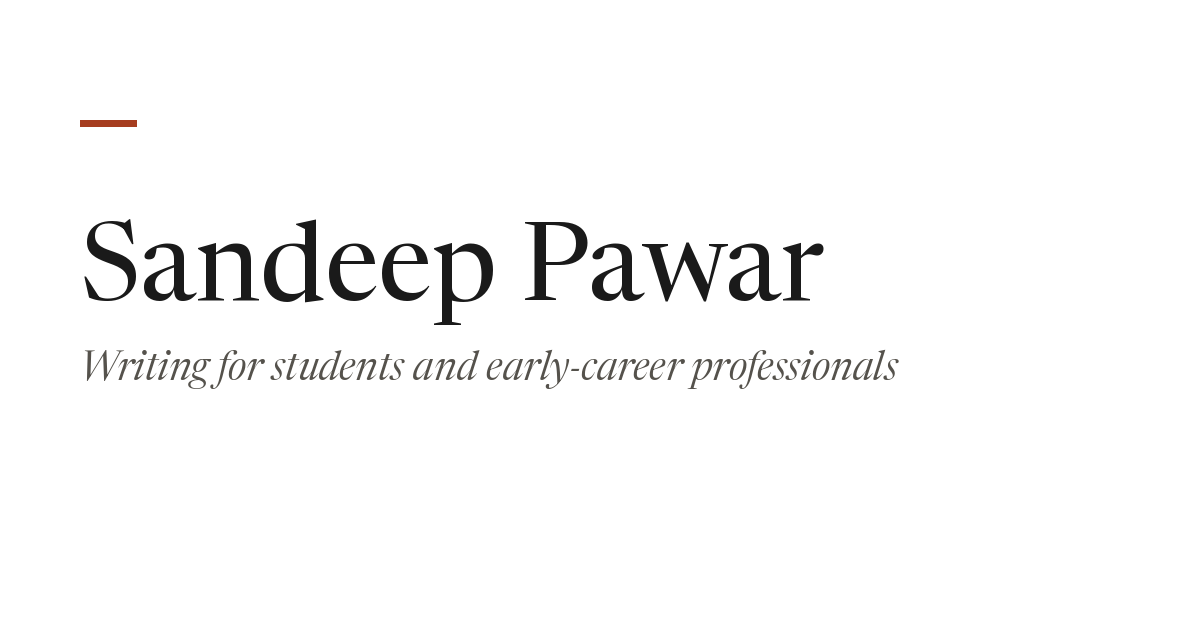
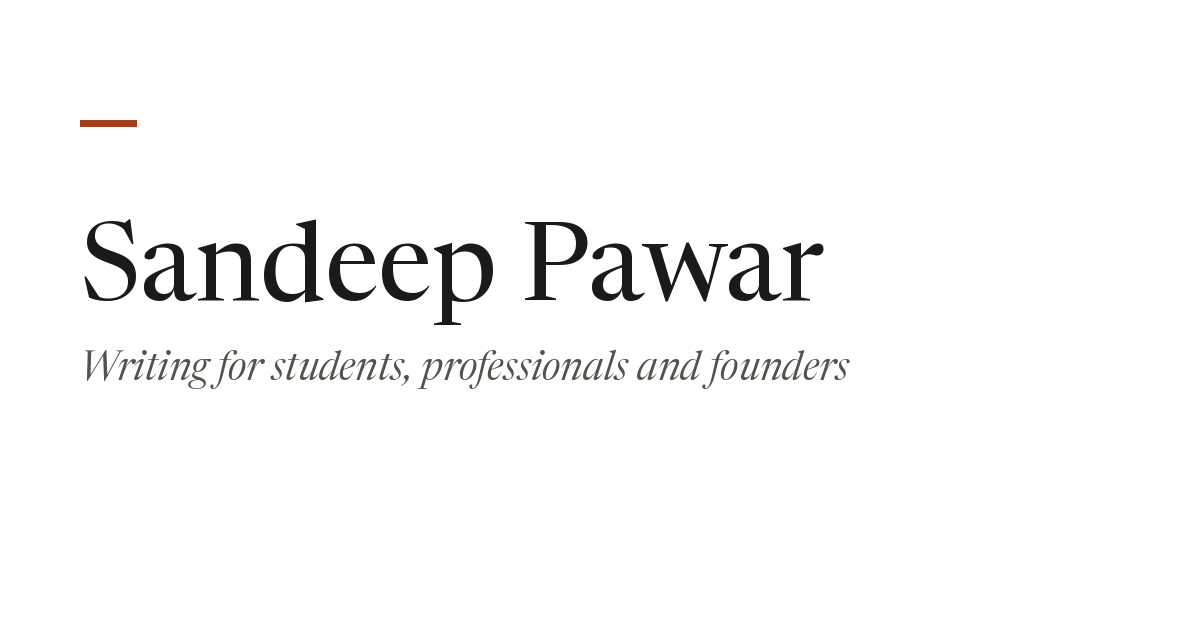
Categories: Students, Young professionals, Young founders

Changed region(s): [[0.3392, 0.5429, 0.7708, 0.6032]]

diff --git a/writing/sample-before-you-leave-your-job-to-start-something/index.html b/writing/sample-before-you-leave-your-job-to-start-something/index.html
@@ -1,0 +1,162 @@
+<!doctype html>
+<html lang="en-IN">
+<head>
+	<meta charset="utf-8">
+	<meta name="viewport" content="width=device-width, initial-scale=1">
+	<title>Sample: Before you leave your job to start something · Sandeep Pawar</title>
+<meta name="robots" content="noindex, nofollow">
+<script>
+const realFetch = window.fetch;
+window.fetch = (url, options) => String(url).includes("/api/method/")
+	? Promise.resolve(new Response(JSON.stringify({_server_messages: JSON.stringify([JSON.stringify({
+		message: "This is a review copy, so forms are switched off."})])}), {status: 400}))
+	: realFetch(url, options);
+</script>
+
+	<meta name="description" content="Most early businesses fail for reasons that were visible before the founder resigned. Four checks that cost nothing but time.">
+	<link rel="canonical" href="https://asifmulani1.github.io/sandeep-pawar-site-preview/writing/sample-before-you-leave-your-job-to-start-something">
+	<meta property="og:site_name" content="Sandeep Pawar">
+	<meta property="og:type" content="article">
+	<meta property="og:title" content="Sample: Before you leave your job to start something">
+	<meta property="og:description" content="Most early businesses fail for reasons that were visible before the founder resigned. Four checks that cost nothing but time.">
+	<meta property="og:url" content="https://asifmulani1.github.io/sandeep-pawar-site-preview/writing/sample-before-you-leave-your-job-to-start-something">
+	<meta property="og:image" content="https://asifmulani1.github.io/sandeep-pawar-site-preview/assets/sp_site/images/samples/before-you-start.jpg">
+	<meta property="article:published_time" content="2026-11-18">
+	<meta property="article:author" content="Sandeep Pawar">
+	<meta name="twitter:card" content="summary_large_image">
+	<meta name="twitter:title" content="Sample: Before you leave your job to start something">
+	<meta name="twitter:description" content="Most early businesses fail for reasons that were visible before the founder resigned. Four checks that cost nothing but time.">
+	<meta name="twitter:image" content="https://asifmulani1.github.io/sandeep-pawar-site-preview/assets/sp_site/images/samples/before-you-start.jpg">
+	<meta name="theme-color" content="#faf9f6" media="(prefers-color-scheme: light)">
+	<meta name="theme-color" content="#181715" media="(prefers-color-scheme: dark)">
+	<link rel="alternate" type="application/rss+xml" title="Sandeep Pawar" href="/sandeep-pawar-site-preview/rss.xml">
+	<link rel="icon" href="/sandeep-pawar-site-preview/assets/sp_site/images/favicon.svg?v=1794989813" type="image/svg+xml">
+	<link rel="preload" href="/sandeep-pawar-site-preview/assets/sp_site/fonts/newsreader-roman.woff2" as="font" type="font/woff2" crossorigin>
+	<link rel="preload" href="/sandeep-pawar-site-preview/assets/sp_site/fonts/source-sans-3.woff2" as="font" type="font/woff2" crossorigin>
+	<link rel="stylesheet" href="/sandeep-pawar-site-preview/assets/sp_site/css/site.css?v=1795070435">
+	<script>try{var t=localStorage.getItem("theme");if(t&&t!=="auto")document.documentElement.setAttribute("data-theme",t)}catch(e){}</script>
+	<script src="/sandeep-pawar-site-preview/assets/sp_site/js/site.js?v=1794989798" defer></script>
+</head>
+<body>
+	<a class="skip-link" href="#main">Skip to content</a>
+	<header class="site-header">
+	<div class="wrap">
+		<a class="site-name" href="/sandeep-pawar-site-preview/">Sandeep Pawar</a>
+		<nav class="site-nav" aria-label="Main">
+			<a href="/sandeep-pawar-site-preview/writing" aria-current="page">Writing</a>
+			<a href="/sandeep-pawar-site-preview/about">About</a>
+			<a href="/sandeep-pawar-site-preview/ask">Ask</a>
+		</nav>
+	</div>
+</header>
+	<main id="main">
+		
+<article>
+	<header class="post-head column">
+		<p class="meta">
+			<span><a href="/sandeep-pawar-site-preview/writing/topic/young-founders">Young founders</a></span>
+			<span><time datetime="2026-11-18">18 November 2026</time></span>
+			<span>1 min read</span>
+		</p>
+		<h1>Sample: Before you leave your job to start something</h1><p class="dek">Most early businesses fail for reasons that were visible before the founder resigned. Four checks that cost nothing but time.</p>
+		<div class="byline"><img src="/sandeep-pawar-site-preview/assets/sp_site/images/sandeep-pawar-cutout.png" alt="" width="48" height="48">
+			<div>
+				<strong>Sandeep Pawar</strong><span>Chief Project Officer, GEMS Education India</span>
+			</div>
+		</div>
+	</header>
+	<div class="post-cover column-wide">
+		<img class="cover" src="/sandeep-pawar-site-preview/assets/sp_site/images/samples/before-you-start.jpg" alt="" width="1600" height="1067" fetchpriority="high" decoding="async">
+	</div>
+
+	<div class="column">
+		<div class="prose">
+<p>Leaving a steady job to build something of your own is a real decision, and it deserves more than a resignation letter and a logo. Most early businesses that fail do so for reasons that were visible months before the founder quit.</p>
+<h2>Find ten people who will pay</h2>
+<p>Not people who say it is a good idea. People who will pay, or sign something that says they will. Friends are kind; customers are honest. If you cannot find ten while you still have a salary, quitting will not make it easier.</p>
+<h2>Know your runway in months, not rupees</h2>
+<p>Add up what you need each month to live, and what the business needs to run. Divide your savings by that number. Whatever the answer, assume the first sale takes twice as long as you expect.</p>
+<h2>Do the boring work once</h2>
+<p>Register the business, open a separate bank account, and work out how you will invoice and pay tax. None of it is exciting, and all of it is harder to fix later.</p>
+<h2>Decide what would make you stop</h2>
+<p>Write down, before you start, what result by what date would tell you to change course. Founders who decide this in advance stop at the right time. Those who decide it later rarely stop at all.</p>
+<hr>
+<p>None of this means you should not start. It means you should start with your eyes open.</p>
+</div>
+
+		<div class="share" aria-label="Share this piece">
+			<span class="label">Share</span>
+			<a href="https://www.linkedin.com/sharing/share-offsite/?url=https%3A%2F%2Fasifmulani1.github.io%2Fsandeep-pawar-site-preview%2Fwriting%2Fsample-before-you-leave-your-job-to-start-something" target="_blank" rel="noopener">
+				<svg viewBox="0 0 16 16" aria-hidden="true" fill="currentColor"><path d="M3.6 5.6H1.2V15h2.4V5.6zM2.4 1.2a1.4 1.4 0 1 0 0 2.8 1.4 1.4 0 0 0 0-2.8zM15 9.8c0-2.5-.5-4.4-3.4-4.4-1.4 0-2.3.8-2.7 1.5V5.6H6.6V15H9v-4.6c0-1.2.2-2.4 1.7-2.4s1.5 1.4 1.5 2.5V15H15V9.8z"/></svg>
+				LinkedIn<span class="visually-hidden"> (opens in a new tab)</span></a>
+			<a href="https://x.com/intent/post?text=Sample%3A+Before+you+leave+your+job+to+start+something&amp;url=https%3A%2F%2Fasifmulani1.github.io%2Fsandeep-pawar-site-preview%2Fwriting%2Fsample-before-you-leave-your-job-to-start-something" target="_blank" rel="noopener">
+				<svg viewBox="0 0 16 16" aria-hidden="true" fill="currentColor"><path d="M12.2 1.5h2.3L9.5 7.2l5.9 7.3h-4.6L7.2 9.9l-4.1 4.6H.8l5.3-6.1L.5 1.5h4.7l3.2 4.2 3.8-4.2zm-.8 11.7h1.3L4.6 2.7H3.2l8.2 10.5z"/></svg>
+				X<span class="visually-hidden"> (opens in a new tab)</span></a>
+			<button type="button" data-copy="https://asifmulani1.github.io/sandeep-pawar-site-preview/writing/sample-before-you-leave-your-job-to-start-something">
+				<svg viewBox="0 0 16 16" aria-hidden="true" fill="none" stroke="currentColor" stroke-width="1.5"><path d="M6.5 9.5l3-3M7 4.5l1.2-1.2a2.5 2.5 0 0 1 3.5 3.5L10.5 8M9 11.5l-1.2 1.2a2.5 2.5 0 0 1-3.5-3.5L5.5 8"/></svg>
+				<span>Copy link</span></button>
+		</div>
+
+		<section class="comments" aria-labelledby="comments-title">
+	<h2 id="comments-title">Comments</h2>
+	<form class="comment-form" action="/sandeep-pawar-site-preview/api/method/sp_site.api.comment" method="post" data-async data-replace
+		data-done="Thank you. Your comment will appear here once it has been read.">
+		<input type="hidden" name="post" value="sample-before-you-leave-your-job-to-start-something">
+		<div>
+			<label for="comment-text">Be the first to comment</label>
+			<textarea class="field" id="comment-text" name="comment" required maxlength="1500" rows="4"></textarea>
+		</div>
+		<div>
+			<label for="comment-by">Your name <span class="hint">Shown with your comment.</span></label>
+			<input class="field" id="comment-by" type="text" name="comment_by" required maxlength="80" autocomplete="name">
+		</div>
+		<div class="honeypot" aria-hidden="true">
+			<label for="comment-website">Leave this empty</label>
+			<input id="comment-website" type="text" name="website" tabindex="-1" autocomplete="off">
+		</div>
+		<div>
+			<button class="button" type="submit">Post comment</button>
+			<p class="comment-note">Comments appear after they have been read. Links are not allowed.</p>
+			<p class="form-status" role="status" aria-live="polite"></p>
+		</div>
+	</form>
+</section>
+	</div>
+</article>
+
+
+
+<section class="signup column" aria-labelledby="signup-title">
+	<h2 id="signup-title">If this was useful, get the next one by email.</h2>
+	<p>One email when something new is published. Your address is used for nothing else.</p>
+	<form class="inline-form" action="/sandeep-pawar-site-preview/api/method/sp_site.api.subscribe" method="post" data-async
+		data-done="Thank you. You will get an email when the next piece is up."
+		data-already="You are already on the list. Thank you.">
+		<label class="visually-hidden" for="signup-email">Email address</label>
+		<input class="field" id="signup-email" type="email" name="email" required maxlength="140" autocomplete="email" placeholder="you@example.com">
+		<div class="honeypot" aria-hidden="true">
+			<label for="signup-website">Leave this empty</label>
+			<input id="signup-website" type="text" name="website" tabindex="-1" autocomplete="off">
+		</div>
+		<button class="button" type="submit">Subscribe</button>
+		<p class="form-status" role="status" aria-live="polite"></p>
+	</form>
+</section>
+<nav class="column" aria-label="More writing">
+	<div class="neighbours">
+		<a class="older" href="/sandeep-pawar-site-preview/writing/sample-choosing-between-two-job-offers" rel="prev"><span class="meta">Previous</span><strong>Sample: Choosing between two job offers</strong></a>
+	</div>
+</nav>
+
+	</main>
+	<footer class="site-footer">
+	<div class="wrap">
+		<p>© 2026 Sandeep Pawar</p>
+		<nav aria-label="Elsewhere"><a href="https://www.linkedin.com/" rel="me">LinkedIn</a><a href="https://x.com/" rel="me">X</a><a href="https://www.instagram.com/" rel="me">Instagram</a>
+			<a href="/sandeep-pawar-site-preview/rss.xml">RSS</a>
+			<button type="button" class="theme-toggle" data-theme-toggle hidden>Theme: auto</button>
+		</nav>
+	</div>
+</footer>
+</body>
+</html>

diff --git a/writing/topic/young-professionals/index.html b/writing/topic/young-professionals/index.html
@@ -56,15 +56,21 @@ window.fetch = (url, options) => String(url).includes("/api/method/")
 	</header>
 	<nav class="filters" aria-label="Filter by category">
 		<a href="/sandeep-pawar-site-preview/writing">All</a>
-		<a href="/sandeep-pawar-site-preview/writing/topic/decisions" aria-current="page">Decisions</a>
-		<a href="/sandeep-pawar-site-preview/writing/topic/first-jobs">First jobs</a>
-		<a href="/sandeep-pawar-site-preview/writing/topic/working-well">Working well</a>
+		<a href="/sandeep-pawar-site-preview/writing/topic/students">Students</a>
+		<a href="/sandeep-pawar-site-preview/writing/topic/young-professionals" aria-current="page">Young professionals</a>
+		<a href="/sandeep-pawar-site-preview/writing/topic/young-founders">Young founders</a>
 	</nav>
 	<ul class="post-list writing-list"><li>
-	<a class="post-row has-thumb" href="/sandeep-pawar-site-preview/writing/sample-choosing-between-two-job-offers">
-		<h3>Sample: Choosing between two job offers</h3><p>Salary is the easiest thing to compare and usually the least important difference between two offers early in a career.</p>
-		<span class="meta"><span>11 Nov 2026</span><span>1 min read</span></span>
-		<img class="thumb" src="/sandeep-pawar-site-preview/assets/sp_site/images/samples/two-offers.jpg" alt="" width="144" height="96" loading="lazy" decoding="async">
+	<a class="post-row has-thumb" href="/sandeep-pawar-site-preview/writing/sample-how-to-ask-your-manager-for-feedback">
+		<h3>Sample: How to ask your manager for feedback</h3><p>“Any feedback for me?” almost always gets “You’re doing fine.” A narrower question gets an answer you can use.</p>
+		<span class="meta"><span>29 Oct 2026</span><span>1 min read</span></span>
+		<img class="thumb" src="/sandeep-pawar-site-preview/assets/sp_site/images/samples/asking-for-feedback.jpg" alt="" width="144" height="96" loading="lazy" decoding="async">
+	</a>
+</li><li>
+	<a class="post-row has-thumb" href="/sandeep-pawar-site-preview/writing/sample-your-first-ninety-days-at-work">
+		<h3>Sample: Your first ninety days at work</h3><p>The first three months set how people see you for a long time. Spend them learning how the place works, not proving how much you know.</p>
+		<span class="meta"><span>14 Oct 2026</span><span>2 min read</span></span>
+		<img class="thumb" src="/sandeep-pawar-site-preview/assets/sp_site/images/samples/first-ninety-days.jpg" alt="" width="144" height="96" loading="lazy" decoding="async">
 	</a>
 </li>
 	</ul>

diff --git a/index.html b/index.html
@@ -73,7 +73,7 @@ window.fetch = (url, options) => String(url).includes("/api/method/")
 		<img class="cover" src="/sandeep-pawar-site-preview/assets/sp_site/images/samples/two-offers.jpg" alt="" width="1600" height="1067"
 			fetchpriority="high" decoding="async">
 		<h3>Sample: Choosing between two job offers</h3><p class="dek">Salary is the easiest thing to compare and usually the least important difference between two offers early in a career.</p>
-		<p class="meta"><span>Decisions</span><span>1 min read</span></p>
+		<p class="meta"><span>Students</span><span>1 min read</span></p>
 	</a>
 </article>
 
@@ -82,7 +82,7 @@ window.fetch = (url, options) => String(url).includes("/api/method/")
 		<img class="cover" src="/sandeep-pawar-site-preview/assets/sp_site/images/samples/first-ninety-days.jpg" alt="" width="1600" height="1067"
 			loading="lazy" decoding="async">
 		<h3>Sample: Your first ninety days at work</h3><p class="dek">The first three months set how people see you for a long time. Spend them learning how the place works, not proving how much you know.</p>
-		<p class="meta"><span>First jobs</span><span>2 min read</span></p>
+		<p class="meta"><span>Young professionals</span><span>2 min read</span></p>
 	</a>
 </article>
 
@@ -94,6 +94,11 @@ window.fetch = (url, options) => String(url).includes("/api/method/")
 		<a href="/sandeep-pawar-site-preview/rss.xml">RSS</a>
 	</div>
 	<ul class="post-list"><li>
+	<a class="post-row" href="/sandeep-pawar-site-preview/writing/sample-before-you-leave-your-job-to-start-something">
+		<h3>Sample: Before you leave your job to start something</h3><p>Most early businesses fail for reasons that were visible before the founder resigned. Four checks that cost nothing but time.</p>
+		<span class="meta"><span>18 Nov 2026</span><span>1 min read</span></span>
+	</a>
+</li><li>
 	<a class="post-row" href="/sandeep-pawar-site-preview/writing/sample-choosing-between-two-job-offers">
 		<h3>Sample: Choosing between two job offers</h3><p>Salary is the easiest thing to compare and usually the least important difference between two offers early in a career.</p>
 		<span class="meta"><span>11 Nov 2026</span><span>1 min read</span></span>

diff --git a/writing/topic/young-founders/index.html b/writing/topic/young-founders/index.html
@@ -56,15 +56,15 @@ window.fetch = (url, options) => String(url).includes("/api/method/")
 	</header>
 	<nav class="filters" aria-label="Filter by category">
 		<a href="/sandeep-pawar-site-preview/writing">All</a>
-		<a href="/sandeep-pawar-site-preview/writing/topic/decisions">Decisions</a>
-		<a href="/sandeep-pawar-site-preview/writing/topic/first-jobs">First jobs</a>
-		<a href="/sandeep-pawar-site-preview/writing/topic/working-well" aria-current="page">Working well</a>
+		<a href="/sandeep-pawar-site-preview/writing/topic/students">Students</a>
+		<a href="/sandeep-pawar-site-preview/writing/topic/young-professionals">Young professionals</a>
+		<a href="/sandeep-pawar-site-preview/writing/topic/young-founders" aria-current="page">Young founders</a>
 	</nav>
 	<ul class="post-list writing-list"><li>
-	<a class="post-row has-thumb" href="/sandeep-pawar-site-preview/writing/sample-how-to-ask-your-manager-for-feedback">
-		<h3>Sample: How to ask your manager for feedback</h3><p>“Any feedback for me?” almost always gets “You’re doing fine.” A narrower question gets an answer you can use.</p>
-		<span class="meta"><span>29 Oct 2026</span><span>1 min read</span></span>
-		<img class="thumb" src="/sandeep-pawar-site-preview/assets/sp_site/images/samples/asking-for-feedback.jpg" alt="" width="144" height="96" loading="lazy" decoding="async">
+	<a class="post-row has-thumb" href="/sandeep-pawar-site-preview/writing/sample-before-you-leave-your-job-to-start-something">
+		<h3>Sample: Before you leave your job to start something</h3><p>Most early businesses fail for reasons that were visible before the founder resigned. Four checks that cost nothing but time.</p>
+		<span class="meta"><span>18 Nov 2026</span><span>1 min read</span></span>
+		<img class="thumb" src="/sandeep-pawar-site-preview/assets/sp_site/images/samples/before-you-start.jpg" alt="" width="144" height="96" loading="lazy" decoding="async">
 	</a>
 </li>
 	</ul>

diff --git a/writing/topic/students/index.html b/writing/topic/students/index.html
@@ -56,15 +56,15 @@ window.fetch = (url, options) => String(url).includes("/api/method/")
 	</header>
 	<nav class="filters" aria-label="Filter by category">
 		<a href="/sandeep-pawar-site-preview/writing">All</a>
-		<a href="/sandeep-pawar-site-preview/writing/topic/decisions">Decisions</a>
-		<a href="/sandeep-pawar-site-preview/writing/topic/first-jobs" aria-current="page">First jobs</a>
-		<a href="/sandeep-pawar-site-preview/writing/topic/working-well">Working well</a>
+		<a href="/sandeep-pawar-site-preview/writing/topic/students" aria-current="page">Students</a>
+		<a href="/sandeep-pawar-site-preview/writing/topic/young-professionals">Young professionals</a>
+		<a href="/sandeep-pawar-site-preview/writing/topic/young-founders">Young founders</a>
 	</nav>
 	<ul class="post-list writing-list"><li>
-	<a class="post-row has-thumb" href="/sandeep-pawar-site-preview/writing/sample-your-first-ninety-days-at-work">
-		<h3>Sample: Your first ninety days at work</h3><p>The first three months set how people see you for a long time. Spend them learning how the place works, not proving how much you know.</p>
-		<span class="meta"><span>14 Oct 2026</span><span>2 min read</span></span>
-		<img class="thumb" src="/sandeep-pawar-site-preview/assets/sp_site/images/samples/first-ninety-days.jpg" alt="" width="144" height="96" loading="lazy" decoding="async">
+	<a class="post-row has-thumb" href="/sandeep-pawar-site-preview/writing/sample-choosing-between-two-job-offers">
+		<h3>Sample: Choosing between two job offers</h3><p>Salary is the easiest thing to compare and usually the least important difference between two offers early in a career.</p>
+		<span class="meta"><span>11 Nov 2026</span><span>1 min read</span></span>
+		<img class="thumb" src="/sandeep-pawar-site-preview/assets/sp_site/images/samples/two-offers.jpg" alt="" width="144" height="96" loading="lazy" decoding="async">
 	</a>
 </li>
 	</ul>

diff --git a/404.html b/404.html
@@ -57,6 +57,11 @@ window.fetch = (url, options) => String(url).includes("/api/method/")
 	<section class="section latest" aria-labelledby="recent">
 		<div class="section-head"><h2 id="recent">Recent writing</h2></div>
 		<ul class="post-list"><li>
+	<a class="post-row" href="/sandeep-pawar-site-preview/writing/sample-before-you-leave-your-job-to-start-something">
+		<h3>Sample: Before you leave your job to start something</h3><p>Most early businesses fail for reasons that were visible before the founder resigned. Four checks that cost nothing but time.</p>
+		<span class="meta"><span>18 Nov 2026</span><span>1 min read</span></span>
+	</a>
+</li><li>
 	<a class="post-row" href="/sandeep-pawar-site-preview/writing/sample-choosing-between-two-job-offers">
 		<h3>Sample: Choosing between two job offers</h3><p>Salary is the easiest thing to compare and usually the least important difference between two offers early in a career.</p>
 		<span class="meta"><span>11 Nov 2026</span><span>1 min read</span></span>
@@ -65,11 +70,6 @@ window.fetch = (url, options) => String(url).includes("/api/method/")
 	<a class="post-row" href="/sandeep-pawar-site-preview/writing/sample-how-to-ask-your-manager-for-feedback">
 		<h3>Sample: How to ask your manager for feedback</h3><p>“Any feedback for me?” almost always gets “You’re doing fine.” A narrower question gets an answer you can use.</p>
 		<span class="meta"><span>29 Oct 2026</span><span>1 min read</span></span>
-	</a>
-</li><li>
-	<a class="post-row" href="/sandeep-pawar-site-preview/writing/sample-your-first-ninety-days-at-work">
-		<h3>Sample: Your first ninety days at work</h3><p>The first three months set how people see you for a long time. Spend them learning how the place works, not proving how much you know.</p>
-		<span class="meta"><span>14 Oct 2026</span><span>2 min read</span></span>
 	</a>
 </li>
 		</ul>

diff --git a/writing/index.html b/writing/index.html
@@ -56,11 +56,17 @@ window.fetch = (url, options) => String(url).includes("/api/method/")
 	</header>
 	<nav class="filters" aria-label="Filter by category">
 		<a href="/sandeep-pawar-site-preview/writing" aria-current="page">All</a>
-		<a href="/sandeep-pawar-site-preview/writing/topic/decisions">Decisions</a>
-		<a href="/sandeep-pawar-site-preview/writing/topic/first-jobs">First jobs</a>
-		<a href="/sandeep-pawar-site-preview/writing/topic/working-well">Working well</a>
+		<a href="/sandeep-pawar-site-preview/writing/topic/students">Students</a>
+		<a href="/sandeep-pawar-site-preview/writing/topic/young-professionals">Young professionals</a>
+		<a href="/sandeep-pawar-site-preview/writing/topic/young-founders">Young founders</a>
 	</nav>
 	<ul class="post-list writing-list"><li>
+	<a class="post-row has-thumb" href="/sandeep-pawar-site-preview/writing/sample-before-you-leave-your-job-to-start-something">
+		<h3>Sample: Before you leave your job to start something</h3><p>Most early businesses fail for reasons that were visible before the founder resigned. Four checks that cost nothing but time.</p>
+		<span class="meta"><span>18 Nov 2026</span><span>1 min read</span></span>
+		<img class="thumb" src="/sandeep-pawar-site-preview/assets/sp_site/images/samples/before-you-start.jpg" alt="" width="144" height="96" loading="lazy" decoding="async">
+	</a>
+</li><li>
 	<a class="post-row has-thumb" href="/sandeep-pawar-site-preview/writing/sample-choosing-between-two-job-offers">
 		<h3>Sample: Choosing between two job offers</h3><p>Salary is the easiest thing to compare and usually the least important difference between two offers early in a career.</p>
 		<span class="meta"><span>11 Nov 2026</span><span>1 min read</span></span>

diff --git a/writing/sample-choosing-between-two-job-offers/index.html b/writing/sample-choosing-between-two-job-offers/index.html
@@ -54,7 +54,7 @@ window.fetch = (url, options) => String(url).includes("/api/method/")
 <article>
 	<header class="post-head column">
 		<p class="meta">
-			<span><a href="/sandeep-pawar-site-preview/writing/topic/decisions">Decisions</a></span>
+			<span><a href="/sandeep-pawar-site-preview/writing/topic/students">Students</a></span>
 			<span><time datetime="2026-11-11">11 November 2026</time></span>
 			<span>1 min read</span>
 		</p>
@@ -145,6 +145,7 @@ window.fetch = (url, options) => String(url).includes("/api/method/")
 <nav class="column" aria-label="More writing">
 	<div class="neighbours">
 		<a class="older" href="/sandeep-pawar-site-preview/writing/sample-how-to-ask-your-manager-for-feedback" rel="prev"><span class="meta">Previous</span><strong>Sample: How to ask your manager for feedback</strong></a>
+		<a class="newer" href="/sandeep-pawar-site-preview/writing/sample-before-you-leave-your-job-to-start-something" rel="next"><span class="meta">Next</span><strong>Sample: Before you leave your job to start something</strong></a>
 	</div>
 </nav>
 

diff --git a/writing/sample-how-to-ask-your-manager-for-feedback/index.html b/writing/sample-how-to-ask-your-manager-for-feedback/index.html
@@ -54,7 +54,7 @@ window.fetch = (url, options) => String(url).includes("/api/method/")
 <article>
 	<header class="post-head column">
 		<p class="meta">
-			<span><a href="/sandeep-pawar-site-preview/writing/topic/working-well">Working well</a></span>
+			<span><a href="/sandeep-pawar-site-preview/writing/topic/young-professionals">Young professionals</a></span>
 			<span><time datetime="2026-10-29">29 October 2026</time></span>
 			<span>1 min read</span>
 		</p>

diff --git a/writing/sample-your-first-ninety-days-at-work/index.html b/writing/sample-your-first-ninety-days-at-work/index.html
@@ -54,7 +54,7 @@ window.fetch = (url, options) => String(url).includes("/api/method/")
 <article>
 	<header class="post-head column">
 		<p class="meta">
-			<span><a href="/sandeep-pawar-site-preview/writing/topic/first-jobs">First jobs</a></span>
+			<span><a href="/sandeep-pawar-site-preview/writing/topic/young-professionals">Young professionals</a></span>
 			<span><time datetime="2026-10-14">14 October 2026</time></span>
 			<span>2 min read</span>
 		</p>
